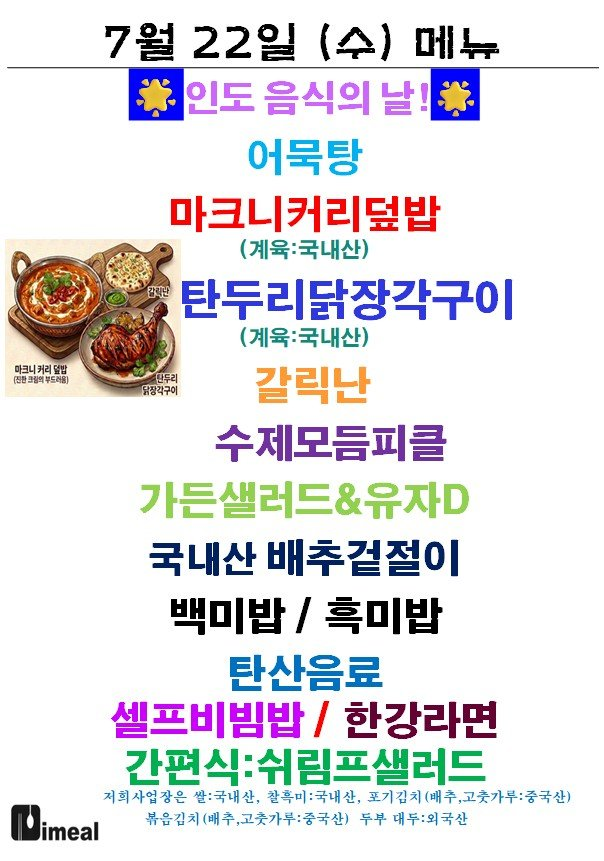
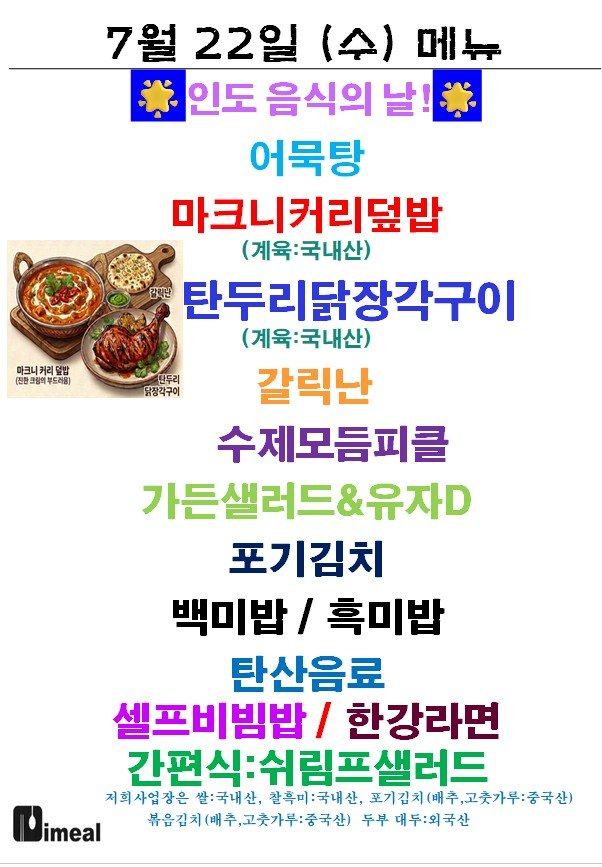
Update menu board assets

Changed region(s): [[0.0, 0.0302, 0.9867, 0.9663], [0.0, 0.9059, 0.1794, 0.9965]]

diff --git a/menu-today/index.html b/menu-today/index.html
@@ -209,7 +209,7 @@
 
     <section class="meta-bar">
       <div class="meta-card"><div class="meta-label">기준 날짜</div><div class="meta-value">2026년 7월 22일 수요일</div></div>
-      <div class="meta-card"><div class="meta-label">최종 가져온 시간</div><div class="meta-value">2026-07-22 09:18:02</div></div>
+      <div class="meta-card"><div class="meta-label">최종 가져온 시간</div><div class="meta-value">2026-07-22 09:33:10</div></div>
       <div class="meta-card"><div class="meta-label">확인 완료</div><div class="meta-value">9개 식당</div></div>
       <div class="meta-card"><div class="meta-label">준비중</div><div class="meta-value">3개 채널</div></div>
     </section>
@@ -225,7 +225,7 @@
             <div class="sub">현대테라타워 가산DK</div>
           </div>
         </div>
-        <div class="menu-inline-image"><img src="./images/imeal.png" alt="아이밀 식단 이미지"></div><ul><li>어묵탕</li><li>마크니커리덮밥</li><li>수제모듬피클</li><li>가든샐러드</li><li>백미밥 / 흑미밥</li><li>인도 음식의 날!</li><li>탄두리닭장각구이</li><li>마크니커리</li><li>각구이</li><li>갈릭난</li><li>타산을</li></ul>
+        <div class="menu-inline-image"><img src="./images/imeal.png" alt="아이밀 식단 이미지"></div><ul><li>어묵탕</li><li>마크니커리덮밥</li><li>yg 탄두리닭장각구이</li><li>수제모듬피클</li><li>가든샐러드</li><li>포기김치</li><li>백미밥 / 흑미밥</li><li>인도 음식의 날!</li><li>가즈</li><li>탄두리닭장각구이</li><li>마크니커리</li><li>각구이</li><li>갈릭난</li></ul>
       </article>
 
       <article class="restaurant-card">
@@ -235,7 +235,7 @@
             <div class="sub">가산 어반워크</div>
           </div>
         </div>
-        <div class="menu-inline-image"><img src="./images/dasibom.png" alt="다시 봄 식단 이미지"></div><ul><li>미역국</li><li>까리간장불고기</li><li>통등심꿔바로우</li><li>찰순대찜</li><li>학교앞떡볶이</li><li>햇감자채볶음</li><li>싱싱샐러드</li><li>배추김치</li><li>등심꿔바로우</li><li>타사으</li></ul>
+        <div class="menu-inline-image"><img src="./images/dasibom.png" alt="다시 봄 식단 이미지"></div><ul><li>어묵국</li><li>목삼겹묵은지두루치기</li><li>치즈품은등심돈까스</li><li>브소인은두무</li><li>바지락미나리전</li><li>싱싱샐러드</li><li>조프</li></ul>
       </article>
 
       <article class="restaurant-card">
@@ -255,7 +255,7 @@
             <div class="sub">디폴리스지식산업센터</div>
           </div>
         </div>
-        <div class="menu-inline-image"><img src="./images/dipolis.png" alt="디폴리스 구내식당 식단 이미지"></div><ul><li>잡곡밥 / 협쌀밥</li><li>제육 고추장 불고기</li><li>탕수육. 물만두 탕수</li><li>구수한 S / 달콤한 식혜</li><li>돈육 짜장 덮밥 &amp; 짜장면</li><li>가쓰오 유부 장국</li><li>Me 가지 볶음 / 반달 단무지</li><li>치커리 야채 샐러드</li><li>겉절이 김치</li><li>&amp; 맛있게 드세요 .?</li><li>팀 수록 물만</li></ul>
+        <div class="menu-inline-image"><img src="./images/dipolis.png" alt="디폴리스 구내식당 식단 이미지"></div><ul><li>잡곡밥 / 협쌀밥</li><li>제육고추장불고기</li><li>탕수육. 물만두 탕수</li><li>구수한 S / 달콤한 식혜</li><li>돈육 짜장 덮밥 &amp; 짜장면</li><li>가쓰오 유부 장국</li><li>Me 가지 볶음 / 반달 단무지</li><li>치커리 야채 샐러드</li><li>겉절이 김치</li><li>&amp; 맛있게 드세요 .?</li><li>팀 수록 물만</li></ul>
       </article>
 
       <article class="restaurant-card">
@@ -295,7 +295,7 @@
             <div class="sub">에이스테크노타워10차</div>
           </div>
         </div>
-        <div class="menu-inline-image"><img src="./images/thefoodsketch.png" alt="더푸드스케치 식단 이미지"></div><ul><li>공나물애장국</li><li>견과류수제꿔바로우</li><li>미나리직화쑤꾸미볶음</li><li>J 두부구이 / 양념장</li><li>버섯잡채</li><li>딕 버터감자조림</li><li>고구마순나물</li><li>다시마 / 브로콜리초외</li><li>가든샐러드 / 드레싱</li><li>김치볶음 / 음료</li><li>그 두부구이 / 양념장</li></ul>
+        <div class="menu-inline-image"><img src="./images/thefoodsketch.png" alt="더푸드스케치 식단 이미지"></div><ul><li>공나물애장국</li><li>견과류수제꿔바로우</li><li>미나리직화쑤꾸미볶음</li><li>J 두부구이 / 양념장</li><li>버섯잡채</li><li>딕 버터감자조림</li><li>고구마순나물</li><li>다시마 / 브로콜리초외</li><li>가든샐러드 &amp; 드레싱</li><li>김치볶음 / 음료</li><li>그 두부구이 / 양념장</li></ul>
       </article>
 
       <article class="restaurant-card">

diff --git a/guro-menu/index.html b/guro-menu/index.html
@@ -32,7 +32,7 @@
   </header>
   <section class="meta">
     <div><small>기준 날짜</small><strong>2026년 7월 22일 수요일</strong></div>
-    <div><small>최종 갱신</small><strong>2026-07-22 09:18:15</strong></div>
+    <div><small>최종 갱신</small><strong>2026-07-22 09:33:21</strong></div>
     <div><small>등록 식당</small><strong>5개</strong></div>
   </section>
   <div class="notice">공개 카카오 채널의 메뉴 이미지를 자동 수집하고 OCR로 정리합니다. 텍스트에 오타가 있을 수 있으니 식단 이미지를 함께 확인해 주세요.</div>
